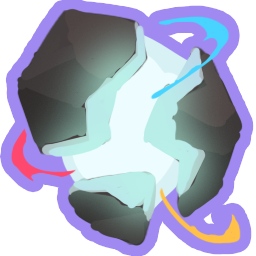
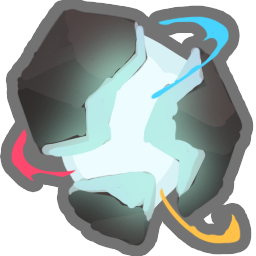
1
fix #206
fix #207

Changed region(s): [[0.0, 0.0, 1.0, 1.0]]

diff --git a/LittleWizardCode/Powers/Cards/WildMagicPower.cs b/LittleWizardCode/Powers/Cards/WildMagicPower.cs
@@ -1,8 +1,11 @@
 using LittleWizard.LittleWizardCode.Api;
 using LittleWizard.LittleWizardCode.Api.Powers;
-using MegaCrit.Sts2.Core.Entities.Cards;
+using LittleWizard.LittleWizardCode.Powers.Elements;
+using MegaCrit.Sts2.Core.Commands;
 using MegaCrit.Sts2.Core.Entities.Creatures;
+using MegaCrit.Sts2.Core.Entities.Players;
 using MegaCrit.Sts2.Core.Entities.Powers;
+using MegaCrit.Sts2.Core.GameActions.Multiplayer;
 using MegaCrit.Sts2.Core.Models;
 using MegaCrit.Sts2.Core.ValueProps;
 
@@ -13,6 +16,13 @@ public class WildMagicPower : LittleWizardPower
     public override PowerType Type => PowerType.Buff;
     public override PowerStackType StackType => PowerStackType.Counter;
 
+    public override async Task AfterPlayerTurnStart(PlayerChoiceContext choiceContext, Player player)
+    {
+        if (player.Creature != Owner)
+            return;
+        await PowerCmd.Apply<FireElement>(choiceContext, Owner, 2, Owner, null);
+    }
+
     public override decimal ModifyDamageMultiplicative(
         Creature? target,
         decimal amount,
@@ -21,9 +31,9 @@ public class WildMagicPower : LittleWizardPower
         CardModel? cardSource
     )
     {
-        return dealer != Owner || !Utils.IsPoweredAttack(props)
-            ? base.ModifyDamageMultiplicative(target, amount, props, dealer, cardSource)
-            : Amount + 1;
+        if (dealer == Owner && Utils.IsPoweredAttack(props))
+            return Amount + 1;
+        return base.ModifyDamageMultiplicative(target, amount, props, dealer, cardSource);
     }
 
     public override decimal ModifyPowerAmountGiven(
@@ -34,22 +44,8 @@ public class WildMagicPower : LittleWizardPower
         CardModel? cardSource
     )
     {
-        if (giver != Owner || power is not BaseElement)
-            return base.ModifyPowerAmountGiven(power, giver, amount, target, cardSource);
-
-        return (Amount + 1) * amount;
-    }
-
-    public override decimal ModifyBlockMultiplicative(
-        Creature target,
-        decimal block,
-        ValueProp props,
-        CardModel? cardSource,
-        CardPlay? cardPlay
-    )
-    {
-        return target != Owner
-            ? base.ModifyBlockMultiplicative(target, block, props, cardSource, cardPlay)
-            : 0;
+        if (giver == Owner && power is BaseElement)
+            return (Amount + 1) * amount;
+        return base.ModifyPowerAmountGiven(power, giver, amount, target, cardSource);
     }
 }